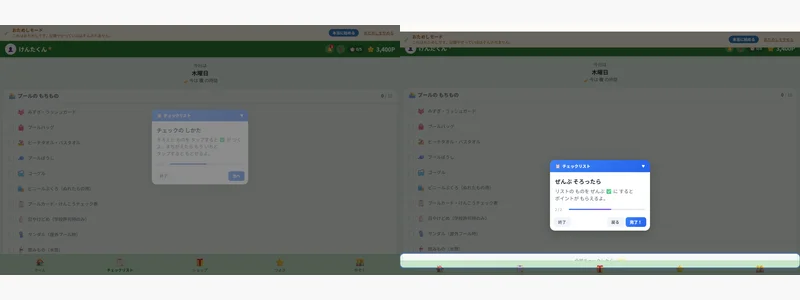
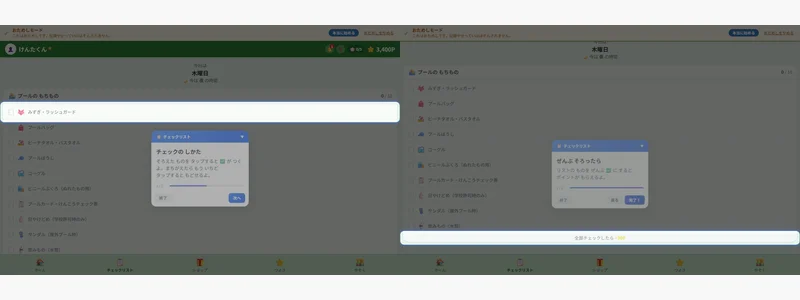
screenshots: PR #5006 (2026-09-23)

diff --git a/pr-5006/02-after-checklist-elementary-desktop-02-child-checklist-points.dom.html b/pr-5006/02-after-checklist-elementary-desktop-02-child-checklist-points.dom.html
@@ -38,7 +38,7 @@
 				transition-colors min-h-16
 				text-[var(--color-text-on-theme-nav)]" data-testid="nav-status" data-tutorial="nav-status"><span class="text-2xl" aria-hidden="true">⭐</span> <!--[0--><span class="text-xs">つよさ</span><!--]--></a><a href="/switch" class="tap-target flex flex-col items-center justify-center gap-0.5 flex-1 py-[var(--sp-sm)]
 				transition-colors min-h-16
-				text-[var(--color-text-on-theme-nav)]" data-testid="nav-switch"><span class="text-2xl" aria-hidden="true">👨👩👧👦</span> <!--[0--><span class="text-xs">かぞく</span><!--]--></a><!--]--></nav><!----> <!--[--><!--$s2--><!--[-1--><!--]--><!----><!--]--><!----> <!--[--><!--$s3--><!--[-1--><!--]--><!----><!--]--><!----><!---->  <!--[-1--><div class="tutorial-overlay svelte-c315ht" data-tutorial-target="resolved"><svg class="tutorial-overlay-svg svelte-c315ht" xmlns="http://www.w3.org/2000/svg" aria-hidden="true"><defs class="svelte-c315ht"><mask id="tutorial-spotlight" class="svelte-c315ht"><rect width="100%" height="100%" fill="white" class="svelte-c315ht"></rect><rect rx="12" fill="black" class="svelte-c315ht" x="1" y="666" width="1278" height="44"></rect></mask></defs><!----><rect class="tutorial-overlay-bg svelte-c315ht" width="100%" height="100%" fill="rgba(0,0,0,0.6)" mask="url(#tutorial-spotlight)"></rect></svg> <div class="tutorial-spotlight-ring svelte-c315ht" style="top: 664px; left: -1px; width: 1282px; height: 48px;"></div><!----> <div class="tutorial-bubble svelte-9wfq4r bubble-top" data-step-id="child-checklist-points" data-has-target="true" style="top: 366px; left: 480px; width: 320px;"><div class="tutorial-chapter-header svelte-9wfq4r"><button class="tutorial-chapter-btn svelte-9wfq4r">📋 <span>チェックリスト</span> <span class="tutorial-chapter-arrow svelte-9wfq4r">▼</span></button></div> <!----> <div class="tutorial-content svelte-9wfq4r"><h3 class="tutorial-title svelte-9wfq4r" data-budoux="">ぜんぶ そろったら</h3> <p class="tutorial-description svelte-9wfq4r" data-budoux="">リストの ものを ぜんぶ ✅ に すると ポイントが もらえるよ。</p></div> <div class="tutorial-progress svelte-9wfq4r"><span class="tutorial-progress-text svelte-9wfq4r">2 / 2</span> <div class="tutorial-progress-bar svelte-9wfq4r"><div class="tutorial-progress-fill svelte-9wfq4r" style="width: 100%;"></div></div></div> <div class="tutorial-nav svelte-9wfq4r"><button class="tutorial-nav-btn tutorial-nav-end svelte-9wfq4r">終了</button> <div class="tutorial-nav-right svelte-9wfq4r"><button class="tutorial-nav-btn tutorial-nav-prev svelte-9wfq4r">戻る</button><!----> <button class="tutorial-nav-btn tutorial-nav-next svelte-9wfq4r">完了！</button></div></div></div><!----></div><!--]--><!----><!--]--></div> <!--[0--><!--[-1--><!--]--><!--]--> <!--[0--><!--[--><!--$s4--><!--[-1--><!--]--><!----><!--]--><!--]--> <!--[0--><!--[--><!--$s5--><!--[-1--><!--]--><!----><!--]--><!--]--><!--]--><!--]--><!----><!--]--><!--]--> <!--[-1--><div id="svelte-announcer" aria-live="assertive" aria-atomic="true" style="position: absolute; left: 0; top: 0; clip: rect(0 0 0 0); clip-path: inset(50%); overflow: hidden; white-space: nowrap; width: 1px; height: 1px"><!----></div><!--]--><!--]-->
+				text-[var(--color-text-on-theme-nav)]" data-testid="nav-switch"><span class="text-2xl" aria-hidden="true">👨👩👧👦</span> <!--[0--><span class="text-xs">かぞく</span><!--]--></a><!--]--></nav><!----> <!--[--><!--$s2--><!--[-1--><!--]--><!----><!--]--><!----> <!--[--><!--$s3--><!--[-1--><!--]--><!----><!--]--><!----><!---->  <!--[-1--><div class="tutorial-overlay svelte-c315ht" data-tutorial-target="resolved"><svg class="tutorial-overlay-svg svelte-c315ht" xmlns="http://www.w3.org/2000/svg" aria-hidden="true"><defs class="svelte-c315ht"><mask id="tutorial-spotlight" class="svelte-c315ht"><rect width="100%" height="100%" fill="white" class="svelte-c315ht"></rect><rect rx="12" fill="black" class="svelte-c315ht" x="1" y="659" width="1278" height="44"></rect></mask></defs><!----><rect class="tutorial-overlay-bg svelte-c315ht" width="100%" height="100%" fill="rgba(0,0,0,0.6)" mask="url(#tutorial-spotlight)"></rect></svg> <div class="tutorial-spotlight-ring svelte-c315ht" style="top: 657px; left: -1px; width: 1282px; height: 48px;"></div><!----> <div class="tutorial-bubble svelte-9wfq4r bubble-top" data-step-id="child-checklist-points" data-has-target="true" style="top: 359px; left: 480px; width: 320px;"><div class="tutorial-chapter-header svelte-9wfq4r"><button class="tutorial-chapter-btn svelte-9wfq4r">📋 <span>チェックリスト</span> <span class="tutorial-chapter-arrow svelte-9wfq4r">▼</span></button></div> <!----> <div class="tutorial-content svelte-9wfq4r"><h3 class="tutorial-title svelte-9wfq4r" data-budoux="">ぜんぶ そろったら</h3> <p class="tutorial-description svelte-9wfq4r" data-budoux="">リストの ものを ぜんぶ ✅ に すると ポイントが もらえるよ。</p></div> <div class="tutorial-progress svelte-9wfq4r"><span class="tutorial-progress-text svelte-9wfq4r">2 / 2</span> <div class="tutorial-progress-bar svelte-9wfq4r"><div class="tutorial-progress-fill svelte-9wfq4r" style="width: 100%;"></div></div></div> <div class="tutorial-nav svelte-9wfq4r"><button class="tutorial-nav-btn tutorial-nav-end svelte-9wfq4r">終了</button> <div class="tutorial-nav-right svelte-9wfq4r"><button class="tutorial-nav-btn tutorial-nav-prev svelte-9wfq4r">戻る</button><!----> <button class="tutorial-nav-btn tutorial-nav-next svelte-9wfq4r">完了！</button></div></div></div><!----></div><!--]--><!----><!--]--></div> <!--[0--><!--[-1--><!--]--><!--]--> <!--[0--><!--[--><!--$s4--><!--[-1--><!--]--><!----><!--]--><!--]--> <!--[0--><!--[--><!--$s5--><!--[-1--><!--]--><!----><!--]--><!--]--><!--]--><!--]--><!----><!--]--><!--]--> <!--[-1--><div id="svelte-announcer" aria-live="assertive" aria-atomic="true" style="position: absolute; left: 0; top: 0; clip: rect(0 0 0 0); clip-path: inset(50%); overflow: hidden; white-space: nowrap; width: 1px; height: 1px"><!----></div><!--]--><!--]-->
 			
 			<script>
 				{
@@ -54,7 +54,7 @@
 					]).then(([kit, app]) => {
 						kit.start(app, element, {
 							node_ids: [0, 2, 11],
-							data: [{type:"data",data:{role:"owner",requestId:"ce320d26-6cc7-4341-bbe5-fc60991ea4de",isDemo:true},uses:{}},(function(a){a.id="903";a.nickname="けんたくん";a.age=8;a.birthDate="2018-03-22";a.theme="green";a.uiMode="elementary";a.uiModeManuallySet=0;a.avatarUrl=null;a.displayConfig=null;a.userId=null;a.birthdayBonusMultiplier=1;a.lastBirthdayBonusYear=null;a.isArchived=0;a.archivedReason=null;a.createdAt="2025-04-01T00:00:00.000Z";a.updatedAt="2026-03-27T09:00:00.000Z";return {type:"data",data:{child:a,balance:3400,level:8,levelTitle:"きせきのマスター",allChildren:[{id:"901",nickname:"たろうくん",age:1,birthDate:"2025-01-15",theme:"blue",uiMode:"baby",uiModeManuallySet:0,avatarUrl:null,displayConfig:null,userId:null,birthdayBonusMultiplier:1,lastBirthdayBonusYear:null,isArchived:0,archivedReason:null,createdAt:"2026-01-01T00:00:00.000Z",updatedAt:"2026-03-27T09:00:00.000Z"},{id:"902",nickname:"ひなちゃん",age:5,birthDate:"2020-06-10",theme:"pink",uiMode:"preschool",uiModeManuallySet:0,avatarUrl:null,displayConfig:null,userId:null,birthdayBonusMultiplier:1,lastBirthdayBonusYear:null,isArchived:0,archivedReason:null,createdAt:"2025-09-01T00:00:00.000Z",updatedAt:"2026-03-27T09:00:00.000Z"},a,{id:"904",nickname:"さくらちゃん",age:14,birthDate:"2011-08-05",theme:"purple",uiMode:"junior",uiModeManuallySet:0,avatarUrl:null,displayConfig:null,userId:null,birthdayBonusMultiplier:1,lastBirthdayBonusYear:null,isArchived:0,archivedReason:null,createdAt:"2025-04-01T00:00:00.000Z",updatedAt:"2026-03-27T09:00:00.000Z"},{id:"906",nickname:"けいすけくん",age:17,birthDate:"2008-11-20",theme:"orange",uiMode:"senior",uiModeManuallySet:0,avatarUrl:null,displayConfig:null,userId:null,birthdayBonusMultiplier:1,lastBirthdayBonusYear:null,isArchived:0,archivedReason:null,createdAt:"2025-04-01T00:00:00.000Z",updatedAt:"2026-03-27T09:00:00.000Z"}],uiMode:"elementary",pointSettings:{mode:"point",currency:"JPY",rate:1},stampProgress:{filled:0,total:5},stampCard:{id:"0",childId:"903",weekStart:"2026-09-21",weekEnd:"2026-09-27",status:"collecting",entries:[],canStampToday:true,totalSlots:5,filledSlots:0,redeemedPoints:null},isPremium:true,planTier:"family",planLimits:{maxChildren:null,maxActivities:null,maxChecklistTemplates:null,maxFamilyMembers:null,historyRetentionDays:null,canExport:true,canFreeTextMessage:true,canCustomReward:true,canSiblingRanking:true,maxCloudExports:10},milestones:[{id:"first_record",threshold:1,achieved:true,achievedAt:"2026-03-14"},{id:"streak_7",threshold:7,achieved:true,achievedAt:null},{id:"streak_14",threshold:14,achieved:true,achievedAt:null},{id:"streak_30",threshold:30,achieved:false,achievedAt:null}],pinGateOnboardingSeen:true},uses:{url:1}}}({})),{type:"data",data:{checklists:[{templateId:"5000",templateName:"プールの もちもの",templateIcon:"🏊",timeSlot:"daily",pointsPerItem:2,completionBonus:10,items:[{id:"6000",name:"みずぎ・ラッシュガード",icon:"👙",checked:false,source:"template"},{id:"6001",name:"プールバッグ",icon:"🎒",checked:false,source:"template"},{id:"6002",name:"ビーチタオル・バスタオル",icon:"🏖",checked:false,source:"template"},{id:"6003",name:"プールぼうし",icon:"🧢",checked:false,source:"template"},{id:"6004",name:"ゴーグル",icon:"🥽",checked:false,source:"template"},{id:"6005",name:"ビニールぶくろ（ぬれたもの用）",icon:"🛍",checked:false,source:"template"},{id:"6006",name:"プールカード・けんこうチェック表",icon:"📋",checked:false,source:"template"},{id:"6007",name:"日やけどめ（学校許可時のみ）",icon:"🧴",checked:false,source:"template"},{id:"6008",name:"サンダル（屋外プール時）",icon:"🩴",checked:false,source:"template"},{id:"6009",name:"飲みもの（水筒）",icon:"🥤",checked:false,source:"template"}],checkedCount:0,totalCount:10,completedAll:false,pointsAwarded:0}],currentTimeSlot:"evening"},uses:{parent:1}}],
+							data: [{type:"data",data:{role:"owner",requestId:"88cdef1c-9797-4450-8ea4-75abad559c3a",isDemo:true},uses:{}},(function(a){a.id="903";a.nickname="けんたくん";a.age=8;a.birthDate="2018-03-22";a.theme="green";a.uiMode="elementary";a.uiModeManuallySet=0;a.avatarUrl=null;a.displayConfig=null;a.userId=null;a.birthdayBonusMultiplier=1;a.lastBirthdayBonusYear=null;a.isArchived=0;a.archivedReason=null;a.createdAt="2025-04-01T00:00:00.000Z";a.updatedAt="2026-03-27T09:00:00.000Z";return {type:"data",data:{child:a,balance:3400,level:8,levelTitle:"きせきのマスター",allChildren:[{id:"901",nickname:"たろうくん",age:1,birthDate:"2025-01-15",theme:"blue",uiMode:"baby",uiModeManuallySet:0,avatarUrl:null,displayConfig:null,userId:null,birthdayBonusMultiplier:1,lastBirthdayBonusYear:null,isArchived:0,archivedReason:null,createdAt:"2026-01-01T00:00:00.000Z",updatedAt:"2026-03-27T09:00:00.000Z"},{id:"902",nickname:"ひなちゃん",age:5,birthDate:"2020-06-10",theme:"pink",uiMode:"preschool",uiModeManuallySet:0,avatarUrl:null,displayConfig:null,userId:null,birthdayBonusMultiplier:1,lastBirthdayBonusYear:null,isArchived:0,archivedReason:null,createdAt:"2025-09-01T00:00:00.000Z",updatedAt:"2026-03-27T09:00:00.000Z"},a,{id:"904",nickname:"さくらちゃん",age:14,birthDate:"2011-08-05",theme:"purple",uiMode:"junior",uiModeManuallySet:0,avatarUrl:null,displayConfig:null,userId:null,birthdayBonusMultiplier:1,lastBirthdayBonusYear:null,isArchived:0,archivedReason:null,createdAt:"2025-04-01T00:00:00.000Z",updatedAt:"2026-03-27T09:00:00.000Z"},{id:"906",nickname:"けいすけくん",age:17,birthDate:"2008-11-20",theme:"orange",uiMode:"senior",uiModeManuallySet:0,avatarUrl:null,displayConfig:null,userId:null,birthdayBonusMultiplier:1,lastBirthdayBonusYear:null,isArchived:0,archivedReason:null,createdAt:"2025-04-01T00:00:00.000Z",updatedAt:"2026-03-27T09:00:00.000Z"}],uiMode:"elementary",pointSettings:{mode:"point",currency:"JPY",rate:1},stampProgress:{filled:0,total:5},stampCard:{id:"0",childId:"903",weekStart:"2026-09-21",weekEnd:"2026-09-27",status:"collecting",entries:[],canStampToday:true,totalSlots:5,filledSlots:0,redeemedPoints:null},isPremium:true,planTier:"family",planLimits:{maxChildren:null,maxActivities:null,maxChecklistTemplates:null,maxFamilyMembers:null,historyRetentionDays:null,canExport:true,canFreeTextMessage:true,canCustomReward:true,canSiblingRanking:true,maxCloudExports:10},milestones:[{id:"first_record",threshold:1,achieved:true,achievedAt:"2026-03-14"},{id:"streak_7",threshold:7,achieved:true,achievedAt:null},{id:"streak_14",threshold:14,achieved:true,achievedAt:null},{id:"streak_30",threshold:30,achieved:false,achievedAt:null}],pinGateOnboardingSeen:true},uses:{url:1}}}({})),{type:"data",data:{checklists:[{templateId:"5000",templateName:"プールの もちもの",templateIcon:"🏊",timeSlot:"daily",pointsPerItem:2,completionBonus:10,items:[{id:"6000",name:"みずぎ・ラッシュガード",icon:"👙",checked:false,source:"template"},{id:"6001",name:"プールバッグ",icon:"🎒",checked:false,source:"template"},{id:"6002",name:"ビーチタオル・バスタオル",icon:"🏖",checked:false,source:"template"},{id:"6003",name:"プールぼうし",icon:"🧢",checked:false,source:"template"},{id:"6004",name:"ゴーグル",icon:"🥽",checked:false,source:"template"},{id:"6005",name:"ビニールぶくろ（ぬれたもの用）",icon:"🛍",checked:false,source:"template"},{id:"6006",name:"プールカード・けんこうチェック表",icon:"📋",checked:false,source:"template"},{id:"6007",name:"日やけどめ（学校許可時のみ）",icon:"🧴",checked:false,source:"template"},{id:"6008",name:"サンダル（屋外プール時）",icon:"🩴",checked:false,source:"template"},{id:"6009",name:"飲みもの（水筒）",icon:"🥤",checked:false,source:"template"}],checkedCount:0,totalCount:10,completedAll:false,pointsAwarded:0}],currentTimeSlot:"evening"},uses:{parent:1}}],
 							form: null,
 							error: null
 						});

diff --git a/pr-5006/01-after-checklist-elementary-desktop-01-child-checklist-check.dom.html b/pr-5006/01-after-checklist-elementary-desktop-01-child-checklist-check.dom.html
@@ -38,7 +38,7 @@
 				transition-colors min-h-16
 				text-[var(--color-text-on-theme-nav)]" data-testid="nav-status" data-tutorial="nav-status"><span class="text-2xl" aria-hidden="true">⭐</span> <!--[0--><span class="text-xs">つよさ</span><!--]--></a><a href="/switch" class="tap-target flex flex-col items-center justify-center gap-0.5 flex-1 py-[var(--sp-sm)]
 				transition-colors min-h-16
-				text-[var(--color-text-on-theme-nav)]" data-testid="nav-switch"><span class="text-2xl" aria-hidden="true">👨👩👧👦</span> <!--[0--><span class="text-xs">かぞく</span><!--]--></a><!--]--></nav><!----> <!--[--><!--$s2--><!--[-1--><!--]--><!----><!--]--><!----> <!--[--><!--$s3--><!--[-1--><!--]--><!----><!--]--><!----><!---->  <!--[-1--><div class="tutorial-overlay svelte-c315ht" data-tutorial-target="fallback"><svg class="tutorial-overlay-svg svelte-c315ht" xmlns="http://www.w3.org/2000/svg" aria-hidden="true"><!----><rect class="tutorial-overlay-bg svelte-c315ht" width="100%" height="100%" fill="rgba(0,0,0,0.6)"></rect></svg> <!----> <div class="tutorial-bubble svelte-9wfq4r" data-step-id="child-checklist-check" data-has-target="true" style="top: 260px; left: 480px; width: 320px;"><div class="tutorial-chapter-header svelte-9wfq4r"><button class="tutorial-chapter-btn svelte-9wfq4r">📋 <span>チェックリスト</span> <span class="tutorial-chapter-arrow svelte-9wfq4r">▼</span></button></div> <!----> <div class="tutorial-content svelte-9wfq4r"><h3 class="tutorial-title svelte-9wfq4r" data-budoux="">チェックの しかた</h3> <p class="tutorial-description svelte-9wfq4r" data-budoux="">そろえた ものを タップすると ✅ が つくよ。まちがえたら もう いちど タップすると もどせるよ。</p></div> <div class="tutorial-progress svelte-9wfq4r"><span class="tutorial-progress-text svelte-9wfq4r">1 / 2</span> <div class="tutorial-progress-bar svelte-9wfq4r"><div class="tutorial-progress-fill svelte-9wfq4r" style="width: 50%;"></div></div></div> <div class="tutorial-nav svelte-9wfq4r"><button class="tutorial-nav-btn tutorial-nav-end svelte-9wfq4r">終了</button> <div class="tutorial-nav-right svelte-9wfq4r"><!----> <button class="tutorial-nav-btn tutorial-nav-next svelte-9wfq4r">次へ</button></div></div></div><!----></div><!--]--><!----><!--]--></div> <!--[0--><!--[-1--><!--]--><!--]--> <!--[0--><!--[--><!--$s4--><!--[-1--><!--]--><!----><!--]--><!--]--> <!--[0--><!--[--><!--$s5--><!--[-1--><!--]--><!----><!--]--><!--]--><!--]--><!--]--><!----><!--]--><!--]--> <!--[-1--><div id="svelte-announcer" aria-live="assertive" aria-atomic="true" style="position: absolute; left: 0; top: 0; clip: rect(0 0 0 0); clip-path: inset(50%); overflow: hidden; white-space: nowrap; width: 1px; height: 1px"><!----></div><!--]--><!--]-->
+				text-[var(--color-text-on-theme-nav)]" data-testid="nav-switch"><span class="text-2xl" aria-hidden="true">👨👩👧👦</span> <!--[0--><span class="text-xs">かぞく</span><!--]--></a><!--]--></nav><!----> <!--[--><!--$s2--><!--[-1--><!--]--><!----><!--]--><!----> <!--[--><!--$s3--><!--[-1--><!--]--><!----><!--]--><!----><!---->  <!--[-1--><div class="tutorial-overlay svelte-c315ht" data-tutorial-target="resolved"><svg class="tutorial-overlay-svg svelte-c315ht" xmlns="http://www.w3.org/2000/svg" aria-hidden="true"><defs class="svelte-c315ht"><mask id="tutorial-spotlight" class="svelte-c315ht"><rect width="100%" height="100%" fill="white" class="svelte-c315ht"></rect><rect rx="12" fill="black" class="svelte-c315ht" x="1" y="246" width="1278" height="65"></rect></mask></defs><!----><rect class="tutorial-overlay-bg svelte-c315ht" width="100%" height="100%" fill="rgba(0,0,0,0.6)" mask="url(#tutorial-spotlight)"></rect></svg> <div class="tutorial-spotlight-ring svelte-c315ht" style="top: 244px; left: -1px; width: 1282px; height: 69px;"></div><!----> <div class="tutorial-bubble svelte-9wfq4r" data-step-id="child-checklist-check" data-has-target="true" style="top: 331px; left: 480px; width: 320px;"><div class="tutorial-chapter-header svelte-9wfq4r"><button class="tutorial-chapter-btn svelte-9wfq4r">📋 <span>チェックリスト</span> <span class="tutorial-chapter-arrow svelte-9wfq4r">▼</span></button></div> <!----> <div class="tutorial-content svelte-9wfq4r"><h3 class="tutorial-title svelte-9wfq4r" data-budoux="">チェックの しかた</h3> <p class="tutorial-description svelte-9wfq4r" data-budoux="">そろえた ものを タップすると ✅ が つくよ。まちがえたら もう いちど タップすると もどせるよ。</p></div> <div class="tutorial-progress svelte-9wfq4r"><span class="tutorial-progress-text svelte-9wfq4r">1 / 2</span> <div class="tutorial-progress-bar svelte-9wfq4r"><div class="tutorial-progress-fill svelte-9wfq4r" style="width: 50%;"></div></div></div> <div class="tutorial-nav svelte-9wfq4r"><button class="tutorial-nav-btn tutorial-nav-end svelte-9wfq4r">終了</button> <div class="tutorial-nav-right svelte-9wfq4r"><!----> <button class="tutorial-nav-btn tutorial-nav-next svelte-9wfq4r">次へ</button></div></div></div><!----></div><!--]--><!----><!--]--></div> <!--[0--><!--[-1--><!--]--><!--]--> <!--[0--><!--[--><!--$s4--><!--[-1--><!--]--><!----><!--]--><!--]--> <!--[0--><!--[--><!--$s5--><!--[-1--><!--]--><!----><!--]--><!--]--><!--]--><!--]--><!----><!--]--><!--]--> <!--[-1--><div id="svelte-announcer" aria-live="assertive" aria-atomic="true" style="position: absolute; left: 0; top: 0; clip: rect(0 0 0 0); clip-path: inset(50%); overflow: hidden; white-space: nowrap; width: 1px; height: 1px"><!----></div><!--]--><!--]-->
 			
 			<script>
 				{
@@ -54,7 +54,7 @@
 					]).then(([kit, app]) => {
 						kit.start(app, element, {
 							node_ids: [0, 2, 11],
-							data: [{type:"data",data:{role:"owner",requestId:"ce320d26-6cc7-4341-bbe5-fc60991ea4de",isDemo:true},uses:{}},(function(a){a.id="903";a.nickname="けんたくん";a.age=8;a.birthDate="2018-03-22";a.theme="green";a.uiMode="elementary";a.uiModeManuallySet=0;a.avatarUrl=null;a.displayConfig=null;a.userId=null;a.birthdayBonusMultiplier=1;a.lastBirthdayBonusYear=null;a.isArchived=0;a.archivedReason=null;a.createdAt="2025-04-01T00:00:00.000Z";a.updatedAt="2026-03-27T09:00:00.000Z";return {type:"data",data:{child:a,balance:3400,level:8,levelTitle:"きせきのマスター",allChildren:[{id:"901",nickname:"たろうくん",age:1,birthDate:"2025-01-15",theme:"blue",uiMode:"baby",uiModeManuallySet:0,avatarUrl:null,displayConfig:null,userId:null,birthdayBonusMultiplier:1,lastBirthdayBonusYear:null,isArchived:0,archivedReason:null,createdAt:"2026-01-01T00:00:00.000Z",updatedAt:"2026-03-27T09:00:00.000Z"},{id:"902",nickname:"ひなちゃん",age:5,birthDate:"2020-06-10",theme:"pink",uiMode:"preschool",uiModeManuallySet:0,avatarUrl:null,displayConfig:null,userId:null,birthdayBonusMultiplier:1,lastBirthdayBonusYear:null,isArchived:0,archivedReason:null,createdAt:"2025-09-01T00:00:00.000Z",updatedAt:"2026-03-27T09:00:00.000Z"},a,{id:"904",nickname:"さくらちゃん",age:14,birthDate:"2011-08-05",theme:"purple",uiMode:"junior",uiModeManuallySet:0,avatarUrl:null,displayConfig:null,userId:null,birthdayBonusMultiplier:1,lastBirthdayBonusYear:null,isArchived:0,archivedReason:null,createdAt:"2025-04-01T00:00:00.000Z",updatedAt:"2026-03-27T09:00:00.000Z"},{id:"906",nickname:"けいすけくん",age:17,birthDate:"2008-11-20",theme:"orange",uiMode:"senior",uiModeManuallySet:0,avatarUrl:null,displayConfig:null,userId:null,birthdayBonusMultiplier:1,lastBirthdayBonusYear:null,isArchived:0,archivedReason:null,createdAt:"2025-04-01T00:00:00.000Z",updatedAt:"2026-03-27T09:00:00.000Z"}],uiMode:"elementary",pointSettings:{mode:"point",currency:"JPY",rate:1},stampProgress:{filled:0,total:5},stampCard:{id:"0",childId:"903",weekStart:"2026-09-21",weekEnd:"2026-09-27",status:"collecting",entries:[],canStampToday:true,totalSlots:5,filledSlots:0,redeemedPoints:null},isPremium:true,planTier:"family",planLimits:{maxChildren:null,maxActivities:null,maxChecklistTemplates:null,maxFamilyMembers:null,historyRetentionDays:null,canExport:true,canFreeTextMessage:true,canCustomReward:true,canSiblingRanking:true,maxCloudExports:10},milestones:[{id:"first_record",threshold:1,achieved:true,achievedAt:"2026-03-14"},{id:"streak_7",threshold:7,achieved:true,achievedAt:null},{id:"streak_14",threshold:14,achieved:true,achievedAt:null},{id:"streak_30",threshold:30,achieved:false,achievedAt:null}],pinGateOnboardingSeen:true},uses:{url:1}}}({})),{type:"data",data:{checklists:[{templateId:"5000",templateName:"プールの もちもの",templateIcon:"🏊",timeSlot:"daily",pointsPerItem:2,completionBonus:10,items:[{id:"6000",name:"みずぎ・ラッシュガード",icon:"👙",checked:false,source:"template"},{id:"6001",name:"プールバッグ",icon:"🎒",checked:false,source:"template"},{id:"6002",name:"ビーチタオル・バスタオル",icon:"🏖",checked:false,source:"template"},{id:"6003",name:"プールぼうし",icon:"🧢",checked:false,source:"template"},{id:"6004",name:"ゴーグル",icon:"🥽",checked:false,source:"template"},{id:"6005",name:"ビニールぶくろ（ぬれたもの用）",icon:"🛍",checked:false,source:"template"},{id:"6006",name:"プールカード・けんこうチェック表",icon:"📋",checked:false,source:"template"},{id:"6007",name:"日やけどめ（学校許可時のみ）",icon:"🧴",checked:false,source:"template"},{id:"6008",name:"サンダル（屋外プール時）",icon:"🩴",checked:false,source:"template"},{id:"6009",name:"飲みもの（水筒）",icon:"🥤",checked:false,source:"template"}],checkedCount:0,totalCount:10,completedAll:false,pointsAwarded:0}],currentTimeSlot:"evening"},uses:{parent:1}}],
+							data: [{type:"data",data:{role:"owner",requestId:"88cdef1c-9797-4450-8ea4-75abad559c3a",isDemo:true},uses:{}},(function(a){a.id="903";a.nickname="けんたくん";a.age=8;a.birthDate="2018-03-22";a.theme="green";a.uiMode="elementary";a.uiModeManuallySet=0;a.avatarUrl=null;a.displayConfig=null;a.userId=null;a.birthdayBonusMultiplier=1;a.lastBirthdayBonusYear=null;a.isArchived=0;a.archivedReason=null;a.createdAt="2025-04-01T00:00:00.000Z";a.updatedAt="2026-03-27T09:00:00.000Z";return {type:"data",data:{child:a,balance:3400,level:8,levelTitle:"きせきのマスター",allChildren:[{id:"901",nickname:"たろうくん",age:1,birthDate:"2025-01-15",theme:"blue",uiMode:"baby",uiModeManuallySet:0,avatarUrl:null,displayConfig:null,userId:null,birthdayBonusMultiplier:1,lastBirthdayBonusYear:null,isArchived:0,archivedReason:null,createdAt:"2026-01-01T00:00:00.000Z",updatedAt:"2026-03-27T09:00:00.000Z"},{id:"902",nickname:"ひなちゃん",age:5,birthDate:"2020-06-10",theme:"pink",uiMode:"preschool",uiModeManuallySet:0,avatarUrl:null,displayConfig:null,userId:null,birthdayBonusMultiplier:1,lastBirthdayBonusYear:null,isArchived:0,archivedReason:null,createdAt:"2025-09-01T00:00:00.000Z",updatedAt:"2026-03-27T09:00:00.000Z"},a,{id:"904",nickname:"さくらちゃん",age:14,birthDate:"2011-08-05",theme:"purple",uiMode:"junior",uiModeManuallySet:0,avatarUrl:null,displayConfig:null,userId:null,birthdayBonusMultiplier:1,lastBirthdayBonusYear:null,isArchived:0,archivedReason:null,createdAt:"2025-04-01T00:00:00.000Z",updatedAt:"2026-03-27T09:00:00.000Z"},{id:"906",nickname:"けいすけくん",age:17,birthDate:"2008-11-20",theme:"orange",uiMode:"senior",uiModeManuallySet:0,avatarUrl:null,displayConfig:null,userId:null,birthdayBonusMultiplier:1,lastBirthdayBonusYear:null,isArchived:0,archivedReason:null,createdAt:"2025-04-01T00:00:00.000Z",updatedAt:"2026-03-27T09:00:00.000Z"}],uiMode:"elementary",pointSettings:{mode:"point",currency:"JPY",rate:1},stampProgress:{filled:0,total:5},stampCard:{id:"0",childId:"903",weekStart:"2026-09-21",weekEnd:"2026-09-27",status:"collecting",entries:[],canStampToday:true,totalSlots:5,filledSlots:0,redeemedPoints:null},isPremium:true,planTier:"family",planLimits:{maxChildren:null,maxActivities:null,maxChecklistTemplates:null,maxFamilyMembers:null,historyRetentionDays:null,canExport:true,canFreeTextMessage:true,canCustomReward:true,canSiblingRanking:true,maxCloudExports:10},milestones:[{id:"first_record",threshold:1,achieved:true,achievedAt:"2026-03-14"},{id:"streak_7",threshold:7,achieved:true,achievedAt:null},{id:"streak_14",threshold:14,achieved:true,achievedAt:null},{id:"streak_30",threshold:30,achieved:false,achievedAt:null}],pinGateOnboardingSeen:true},uses:{url:1}}}({})),{type:"data",data:{checklists:[{templateId:"5000",templateName:"プールの もちもの",templateIcon:"🏊",timeSlot:"daily",pointsPerItem:2,completionBonus:10,items:[{id:"6000",name:"みずぎ・ラッシュガード",icon:"👙",checked:false,source:"template"},{id:"6001",name:"プールバッグ",icon:"🎒",checked:false,source:"template"},{id:"6002",name:"ビーチタオル・バスタオル",icon:"🏖",checked:false,source:"template"},{id:"6003",name:"プールぼうし",icon:"🧢",checked:false,source:"template"},{id:"6004",name:"ゴーグル",icon:"🥽",checked:false,source:"template"},{id:"6005",name:"ビニールぶくろ（ぬれたもの用）",icon:"🛍",checked:false,source:"template"},{id:"6006",name:"プールカード・けんこうチェック表",icon:"📋",checked:false,source:"template"},{id:"6007",name:"日やけどめ（学校許可時のみ）",icon:"🧴",checked:false,source:"template"},{id:"6008",name:"サンダル（屋外プール時）",icon:"🩴",checked:false,source:"template"},{id:"6009",name:"飲みもの（水筒）",icon:"🥤",checked:false,source:"template"}],checkedCount:0,totalCount:10,completedAll:false,pointsAwarded:0}],currentTimeSlot:"evening"},uses:{parent:1}}],
 							form: null,
 							error: null
 						});
